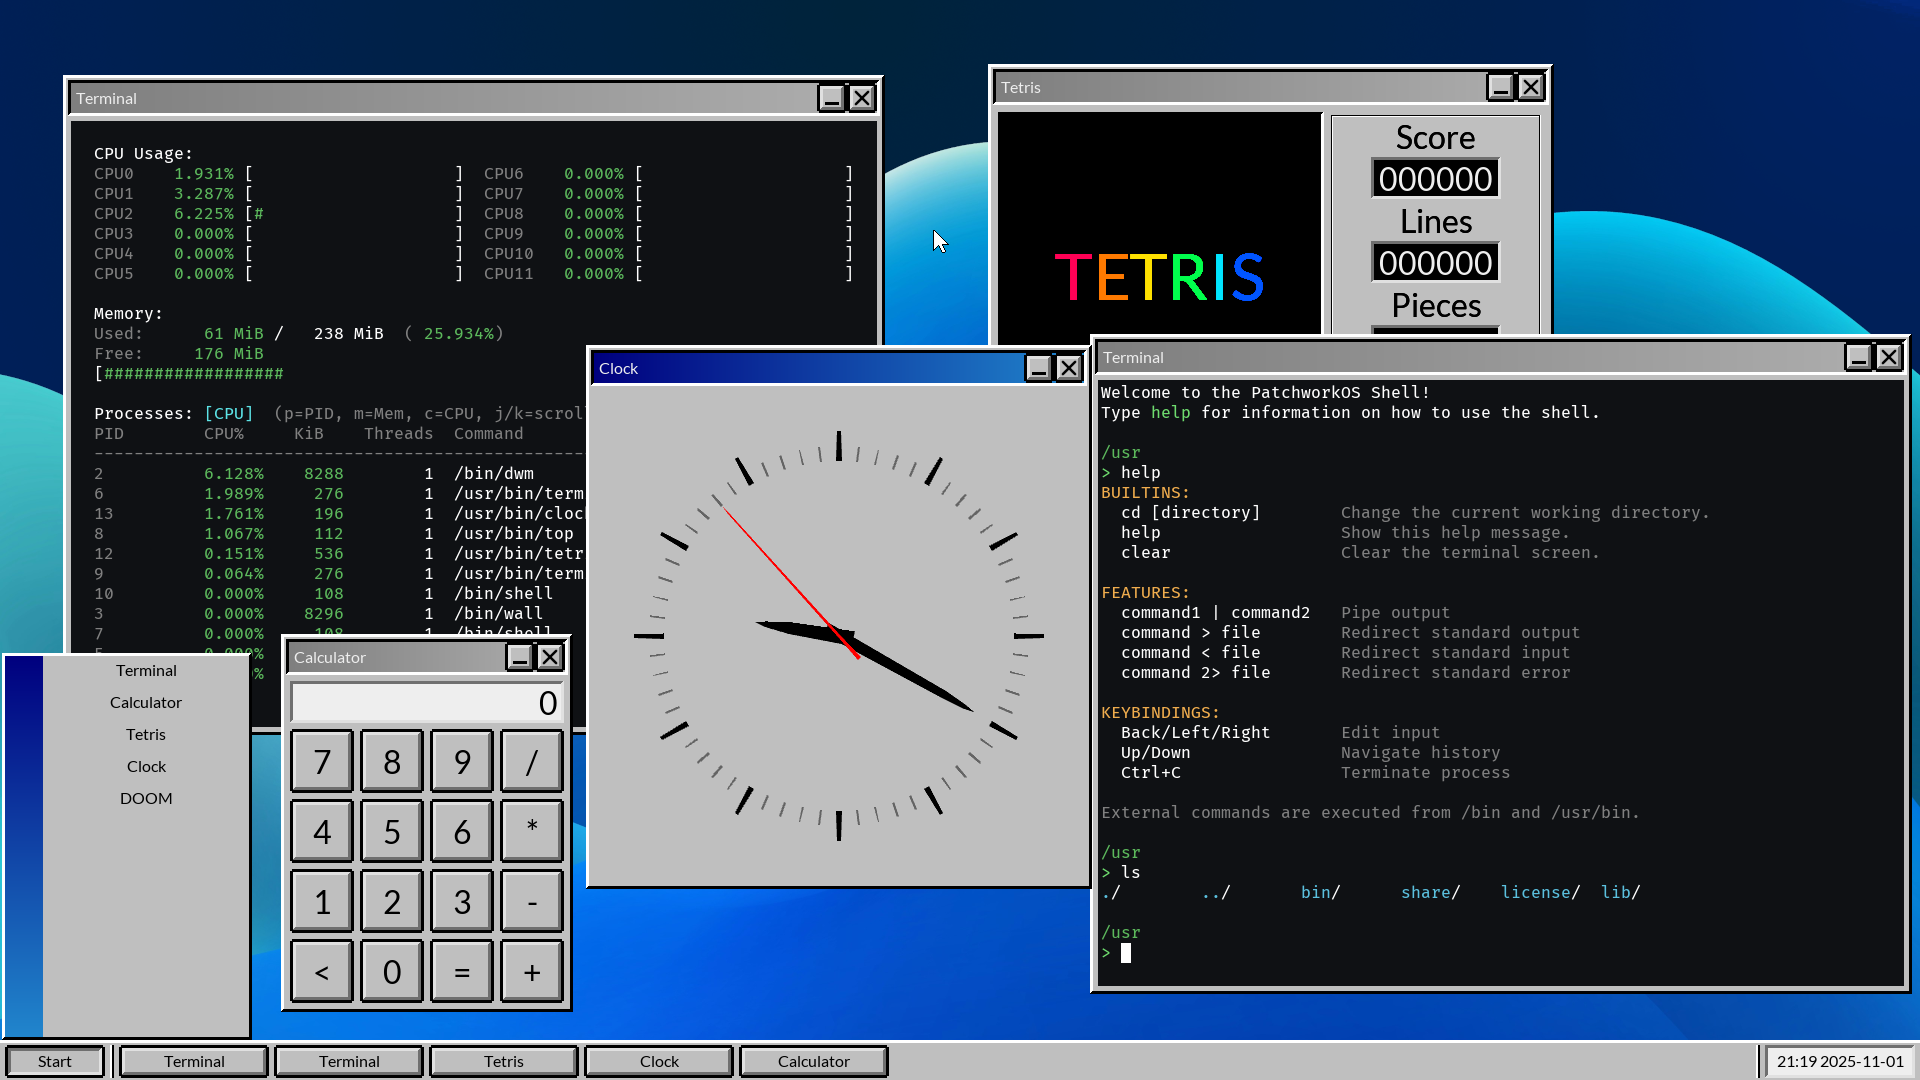
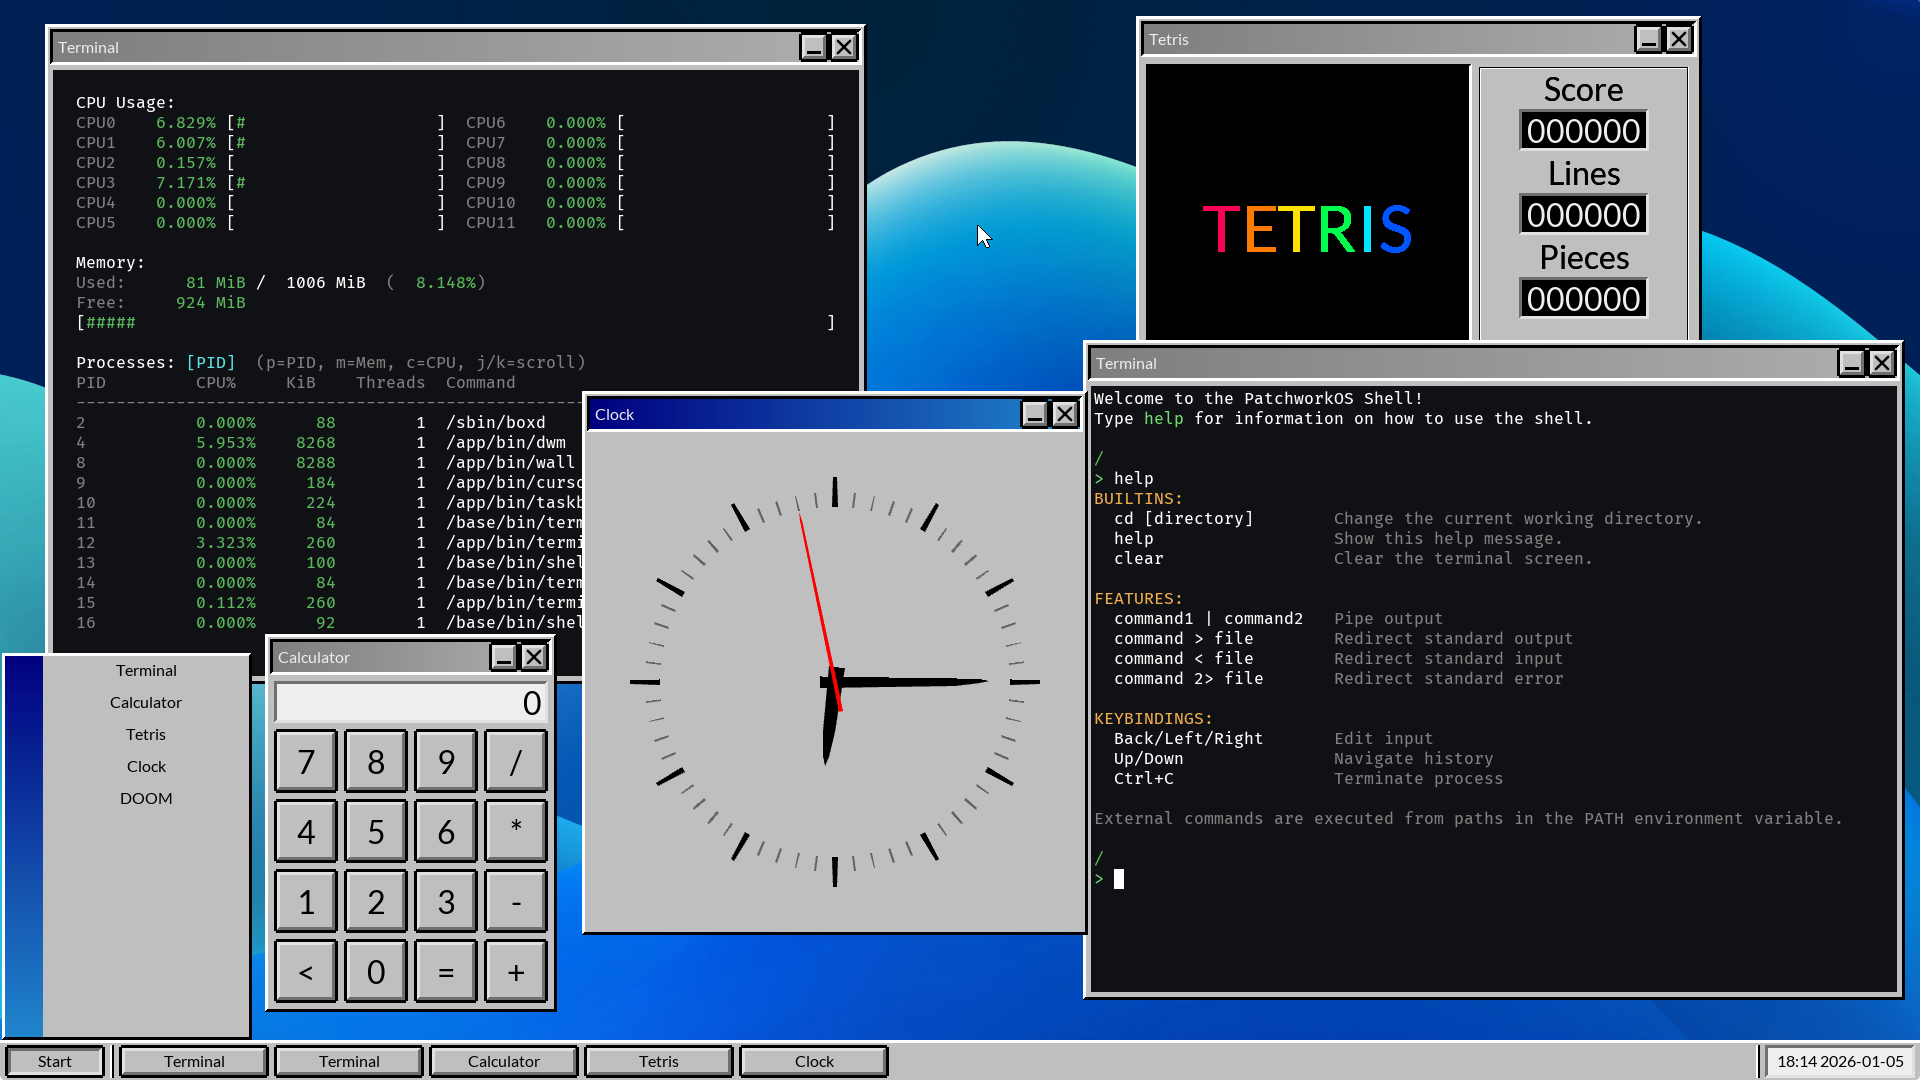
chore: new desktop screenshot

diff --git a/src/programs/core/shell/builtin.c b/src/programs/core/shell/builtin.c
@@ -71,7 +71,7 @@ static uint64_t builtin_help(uint64_t argc, const char** argv)
     printf("  Up/Down            \t\033[90mNavigate history\033[0m\n");
     printf("  Ctrl+C             \t\033[90mTerminate process\033[0m\n");
 
-    printf("\n\033[90mExternal commands are executed from /bin and /usr/bin.\033[0m\n");
+    printf("\n\033[90mExternal commands are executed from paths in the PATH environment variable.\033[0m\n");
 
     return 0;
 }

diff --git a/README.md b/README.md
@@ -85,8 +85,9 @@ Will this project ever reach its goals? Probably not, but that's not the point.
 
 ## Notable Future Plans
 
-- Implement user system in user-space using namespaces.
 - File servers (FUSE, 9P?).
+- Implement user system in user-space using namespaces.
+- Improve `share()` and `claim()` security by specifying a target PID when sharing.
 - Overhaul Desktop Window Manager to use the new security system and file servers?
 - Port LUA and use it for dynamic system configuration.
 - Fully Asynchronous I/O and syscalls (io_uring?).
